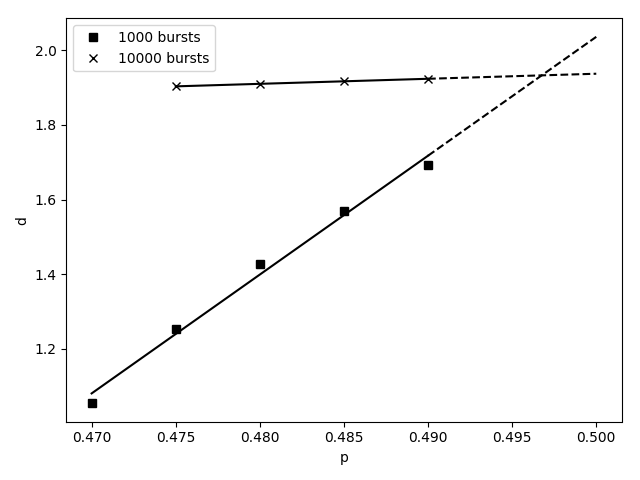
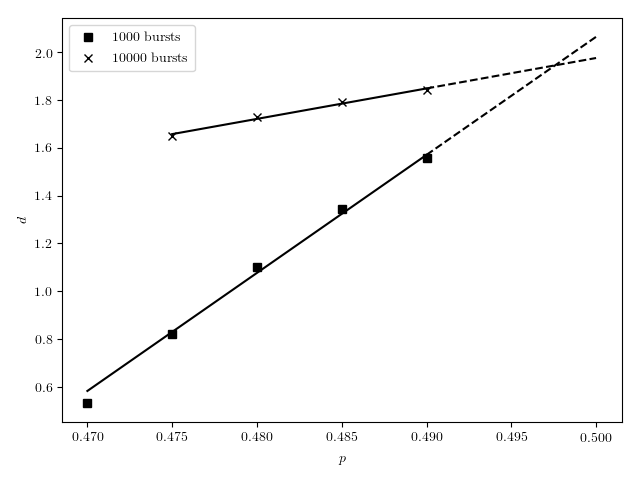
more figs

diff --git a/analysis/plotting.py b/analysis/plotting.py
@@ -11,6 +11,9 @@ import os
 from scipy.optimize import curve_fit
 import numpy as np
 
+plt.rc('text', usetex=True)
+plt.rc('font', family='serif')
+
 def getp(filename):
     n_index = filename.index('n')
     return float(filename[1:n_index])
@@ -50,14 +53,18 @@ def lin(x,a,b):
 def pwr(x,a,b):
     return b*x**a
 
-def linfit(x,y,s, name=None):
-    fit, cov = curve_fit(lin, x[s], y[s])
+def linfit(x,y,s, name=None, legend = 'Cluster numbers', label = []):
+    sigma = 1/np.exp(y[s])
+    fit, cov = curve_fit(lin, x[s], y[s], sigma = sigma)
     if name != None:
         plt.ioff()
         f,a = plt.subplots(1,1)
-        a.plot(x,y,'ok')
-        a.plot(x[s], [lin(i,*fit) for i in x[s]], 'r--') #fitregion 
-        a.set_title('Slope: {s:.03f}'.format(s=fit[0]))
+        a.plot(x,y,'ok', label=legend)
+        a.plot(x[s], [lin(i,*fit) for i in x[s]], 'r--', label='Fit region. Slope is {:.03f}'.format(fit[0])) #fitregion 
+        a.set_xlabel(label[0])
+        a.set_ylabel(label[1])
+        a.legend()
+        f.tight_layout()
         f.savefig('./data/fits/{name}'.format(name=name))
         plt.close(f)
         plt.ion()
@@ -97,14 +104,14 @@ plt.close('all')
 
 markers = ['o','s','x','^','d']
 
-save_fits = False
+save_fits = True
 
 for N in tau_dict:
     filenames = tau_dict[N]
     P = [getp(f) for f in filenames] #extract P
-    s=slice(2,25) #pretty arbitrary but we can use it for now..    
+    s=slice(0,None) #pretty arbitrary but we can use it for now..    
     if save_fits:
-        tau = [-linfit(*[np.log(i) for i in read(f)],s, name=f+'.png')[0][0] for f in filenames] 
+        tau = [-linfit(*[np.log(i) for i in read(f)],s, name=f+'.png', legend='Cluster numbers', label=['$\ln(s)$','$\ln(N_s)$'])[0][0] for f in filenames] 
     else:
         tau = [-linfit(*[np.log(i) for i in read(f)],s, name=None)[0][0] for f in filenames] 
     tau_fits[N] = pairsort(P,tau)
@@ -112,20 +119,20 @@ for N in tau_dict:
 for N in surv_dict:
     filenames = surv_dict[N]
     P = [getp(f) for f in filenames] 
-    s=slice(2,25) #pretty arbitrary but we can use it for now..
+    s=slice(0,None) #pretty arbitrary but we can use it for now..
     if save_fits:
-        surv_tau = [-linfit(*[np.log(i) for i in read(f)],s, name=f+'.png')[0][0] for f in filenames] 
+        surv_tau = [-linfit(*[np.log(i) for i in read(f)],s, name=f+'.png', legend='Survivor distribution on cluster numbers', label=['$\ln(s)$','$\ln(N_{GR})$'])[0][0] for f in filenames] 
     else:
         surv_tau = [-linfit(*[np.log(i) for i in read(f)],s, name=None)[0][0] for f in filenames] 
     b=[3/2*i for i in surv_tau]
     surv_fits[N] = pairsort(P,b)
 
-for N in fracdim_dict:
+fracdim_slices = [slice(0,15), slice(0,22), slice(0,28)]
+for N,s in zip(fracdim_dict, fracdim_slices):
     filenames = fracdim_dict[N]
     P = [getp(f) for f in filenames]
-    s=slice(0,15) #pretty arbitrary but we can use it for now..
     if save_fits:
-        fracdim = [linfit(*[np.log(i) for i in read(f)],s, name=f+'.png')[0][0] for f in filenames] 
+        fracdim = [linfit(*[np.log(i) for i in read(f)],s, name=f+'.png', legend='Mass', label=['$\ln(R)$','$\ln(M)$'])[0][0] for f in filenames] 
     else:
         fracdim = [linfit(*[np.log(i) for i in read(f)],s, name=None)[0][0] for f in filenames] 
     fracdim_fits[N] = pairsort(P,fracdim)
@@ -136,10 +143,10 @@ for N in gamma_dict:
     P = np.log(abs(0.5-np.array(P)))
     mean_clusters = np.log(mean_clusters)
     if save_fits:
-        gamma = linfit(P, mean_clusters, slice(0,None), name=f+'.png')[0][0]
+        gamma = linfit(P, mean_clusters, slice(0,None), name=f+'.png', legend='Mean cluster size', label=['$\ln(<N_s>)$','$\ln(|p-p_c|)$'])[0][0]
     else:
          gamma = linfit(P, mean_clusters, slice(0,None))[0][0]
-    gamma_fits[N] = gamma
+    gamma_fits[N] = -gamma
 
 f_surv, a_surv = plt.subplots(1,1)
 for N,m in zip(surv_fits,markers):
@@ -147,9 +154,12 @@ for N,m in zip(surv_fits,markers):
     a_surv.plot(*surv_fits[N],'--k', marker=m, label='{n} bursts'.format(n=N))
 #    a_surv.loglog(abs(np.array(P)-0.5), surv, '--k', marker=m, label='{n} bursts'.format(n=N))
 #a_surv.set_title('Survival fit')
-a_surv.set_xlabel('p')
-a_surv.set_ylabel('b')
+a_surv.set_xlabel('$p$')
+a_surv.set_ylabel('$b$')
 a_surv.legend(*sort_legend(a_surv))
+f_surv.tight_layout()
+f_surv.savefig('../figures/bvalue.png')
+
     
 f_tau, a_tau = plt.subplots(1,1)
 for N,m in zip(tau_fits,markers):
@@ -157,9 +167,12 @@ for N,m in zip(tau_fits,markers):
     a_tau.plot(*tau_fits[N],'--k', marker=m, label='{n} bursts'.format(n=N))
 #    a_tau.loglog(abs(np.array(P)-0.5), tau, '--k', marker=m, label='{n} bursts'.format(n=N))
 #a_tau.set_title('Tau fit')
-a_tau.set_xlabel('p')
-a_tau.set_ylabel('tau')
+a_tau.set_xlabel('$p$')
+a_tau.set_ylabel('$\\tau$')
 a_tau.legend(*sort_legend(a_tau))
+f_tau.tight_layout()
+f_tau.savefig('../figures/tau.png')
+
 
 f_frac, a_frac = plt.subplots(1,1)
 for N,m in zip(fracdim_fits,markers): 
@@ -172,16 +185,21 @@ for N,m in zip(fracdim_fits,markers):
         a_frac.plot(P_extrap, [lin(x, *fracdim_extrap_fit) for x in P_extrap], 'k--')
         
 #a_frac.set_title('Fractal dimension fits')
-a_frac.set_xlabel('p')
-a_frac.set_ylabel('d')
+a_frac.set_xlabel('$p$')
+a_frac.set_ylabel('$d$')
 a_frac.legend()
+f_frac.tight_layout()
+f_frac.savefig('../figures/fracdim.png')
+
 
 f_gamma, a_gamma = plt.subplots(1,1)
 a_gamma.semilogx(*pairsort(list(gamma_fits.keys()), list(gamma_fits.values())),'ok--', label='Gamma for different values of N')
 #a_gamma.set_title('Gamma fits semilogx scale')
-a_gamma.set_xlabel('Number of bursts')
-a_gamma.set_ylabel('gamma')
+a_gamma.set_xlabel('$\mbox{Number of bursts, } N$')
+a_gamma.set_ylabel('$\gamma$')
 a_gamma.legend()
+f_gamma.tight_layout()
+f_gamma.savefig('../figures/gamma.png')
 
 
 plt.show()

diff --git a/analysis/drawing.py b/analysis/drawing.py
@@ -1,0 +1,62 @@
+import matplotlib.pyplot as plt
+import matplotlib.cm as cm
+import numpy as np
+from read_data import read
+
+def get_end_site(x,y,index):
+    if index==0: # clockwise up
+        return (x,y+1)
+    if index==1:
+        return (x+1,y)
+    if index==2:
+        return (x,y-1)
+    if index==3:
+        return (x-1,y)
+
+def plot(bonds, f = None, a = None, color=None):
+    if color==None:
+        colors=[cm.viridis(i) for i in np.linspace(0,1,len(bonds))]
+    else:
+        colors=[color for i in range(len(bonds))]
+    for burst,color in zip(bonds,colors):
+        end_points = [get_end_site(*i) for i in burst]
+        start_points = [c[0:2] for c in burst]
+        if f==None and a == None:
+            f,a = plt.subplots(1,1, figsize = [10,10], dpi=100)
+        for s,e in zip(start_points,end_points):
+            dx = [s[0],e[0]]
+            dy = [s[1],e[1]]
+            a.plot(dx,dy,color=color)
+        try:
+            a.plot(*burst[0][0:2],'o', color='k', fillstyle='none')
+        except IndexError:
+            pass
+        a.axis('equal')
+    return f,a
+
+def bigplot(bonds):
+    sites = [(site[0],site[1]) for burst in bonds for site in burst] #flatten
+    maxx = max(sites, key = lambda s: s[0])[0]
+    maxy = max(sites, key = lambda s: s[1])[1]
+    minx = min(sites, key = lambda s: s[0])[0]
+    miny = min(sites, key = lambda s: s[1])[1]
+    dx = maxx-minx+2
+    dy = maxy-miny+2
+
+    M=np.zeros((dx,dy)) #center is at (0,0) and positions are allowed negative
+    
+    for (x,y) in sites:
+        M[(x-minx)][(y-miny)] = 1
+    
+    M=1-M
+    
+    dpi = 1000.0
+    xpixels, ypixels = maxx, maxy
+    
+    fig = plt.figure(figsize=(ypixels/dpi, xpixels/dpi), dpi=dpi)
+    fig.figimage(M, origin='lower', cmap='gray', resize=True)
+    return fig
+
+ns, bonds = read('../small')
+f,a = plot(bonds)
+f.savefig('small.png')
